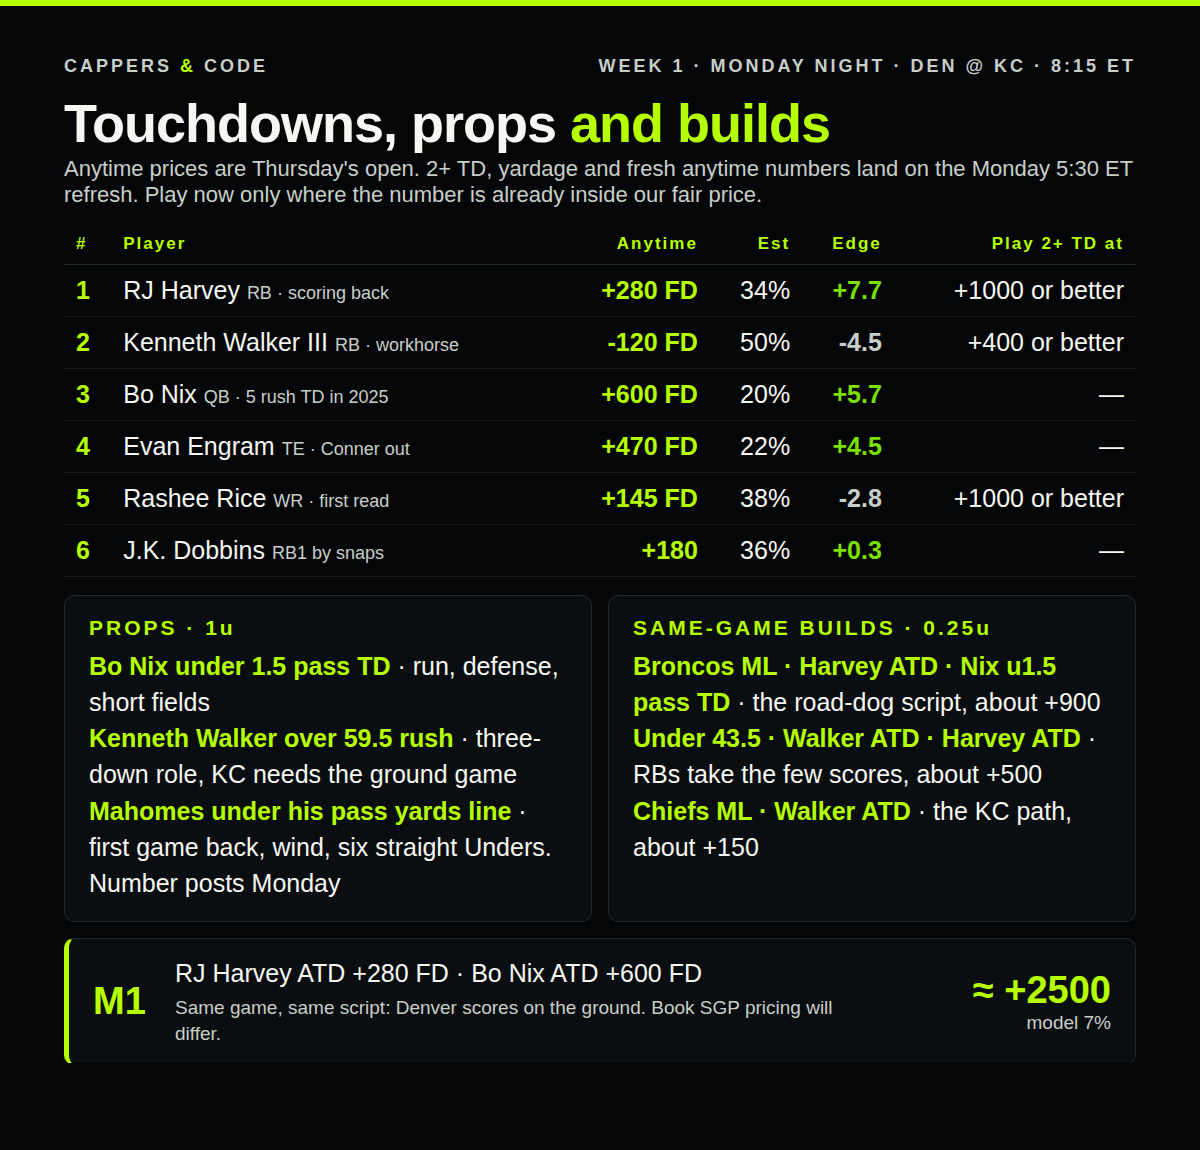
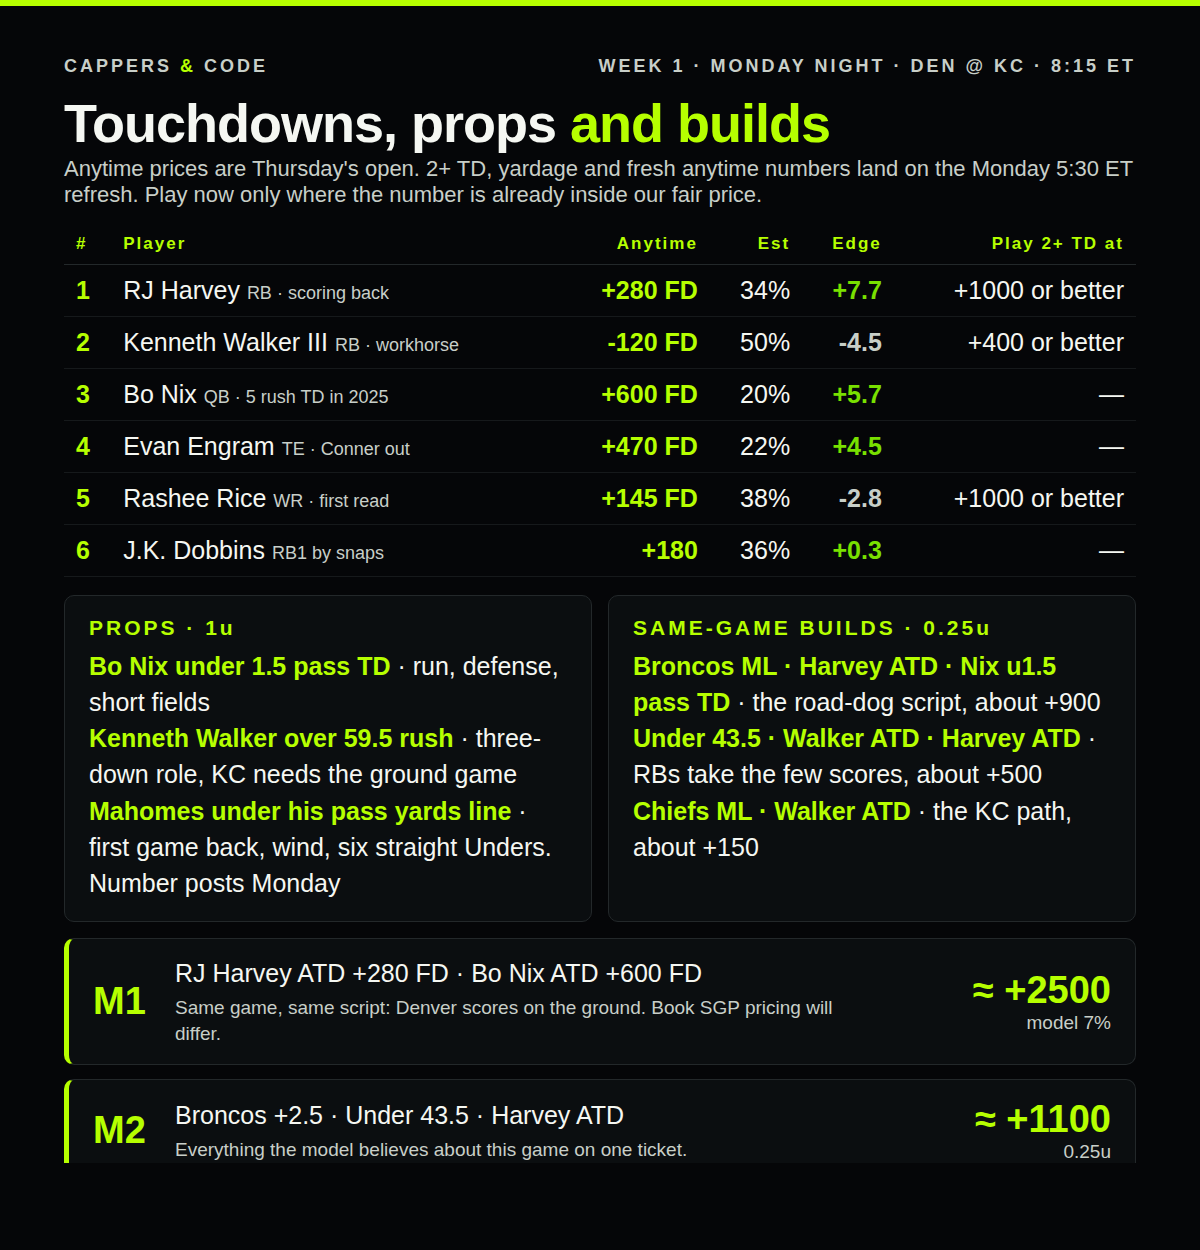
MNF cards: full height
Claude-Session: https://claude.ai/code/session_01QLorhy8pwXBVsprT2JzAqk

diff --git a/site/sheets/w01-mnf.html b/site/sheets/w01-mnf.html
@@ -6,7 +6,7 @@
 <style>
   * { box-sizing: border-box; }
   body { margin: 0; background: #050608; color: #F5F7F2; font-family: -apple-system, "Segoe UI", Roboto, Helvetica, Arial, sans-serif; }
-  .card { width: 1200px; min-height: 1150px; padding: 56px 64px 48px; background: #050608; position: relative; overflow: hidden; }
+  .card { width: 1200px; min-height: 1250px; padding: 56px 64px 48px; background: #050608; position: relative; overflow: hidden; }
   body.only .card { display: none; }
   body.only .card:target { display: block; }
   .card::before { content: ""; position: absolute; left: 0; top: 0; width: 100%; height: 6px; background: #B6FF00; }
